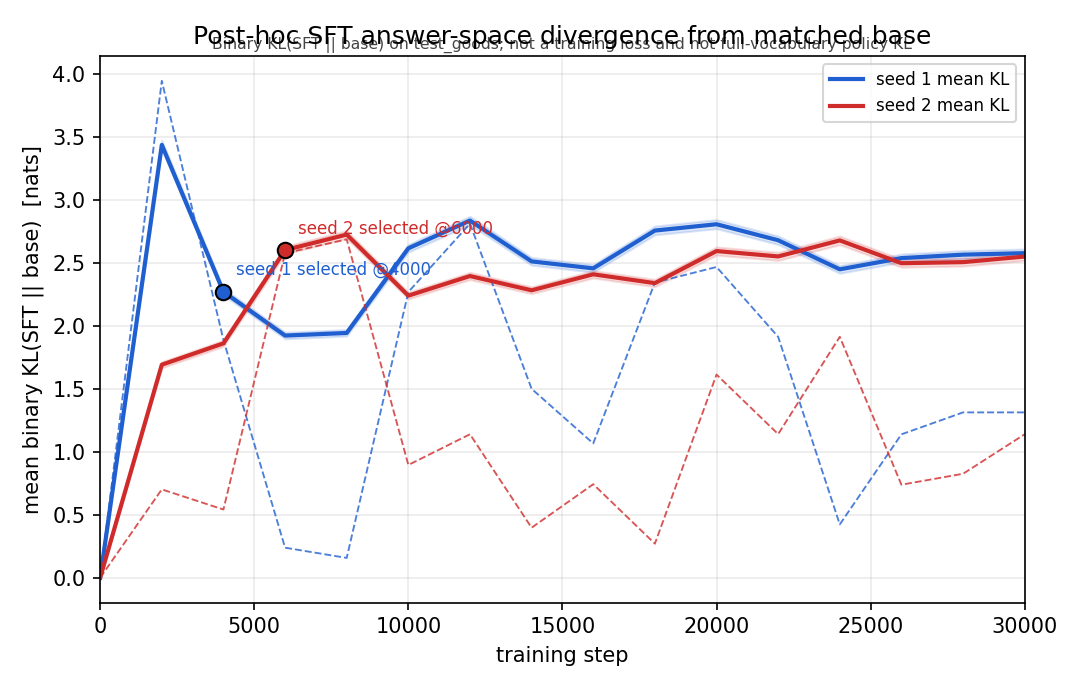
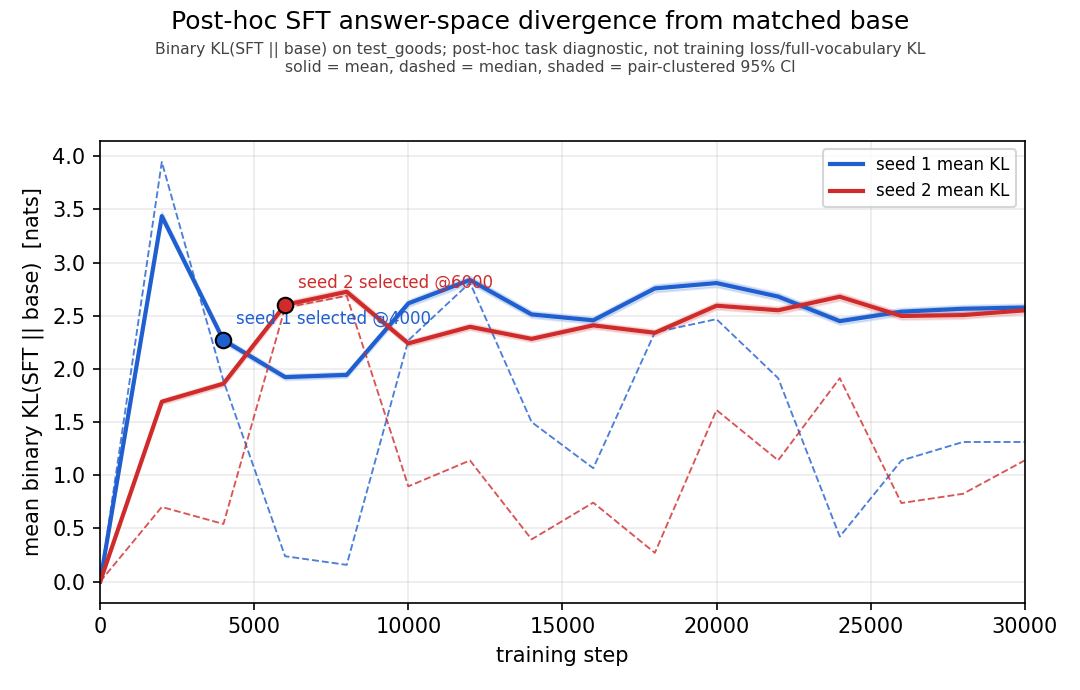
Clarify and repair SFT KL presentation

diff --git a/draft/sft-presentation.html b/draft/sft-presentation.html
@@ -335,7 +335,7 @@
           <p>Warmup ends at step 1,500, followed by cosine decay to almost zero at 30k. The recorded schedule matches the configuration.</p>
         </div>
       </div>
-      <p class="note"><strong>Training result:</strong> both seeds completed 30,000 updates without numerical failure. Median target-token loss fell by about 59% in both runs. SFT has no reward, advantage, generation, or KL curve; those are GRPO quantities.</p>
+      <p class="note"><strong>Training result:</strong> both seeds completed 30,000 updates without numerical failure. Median target-token loss fell by about 59% in both runs. SFT has no training-time reward, advantage, generation, or KL term/curve; the next figure is a post-hoc diagnostic.</p>
     </section>
 
     <section>
@@ -343,7 +343,7 @@
       <figure>
         <img
           src="../results/training_dynamics/sft/sft_answer_divergence.png"
-          data-fallbacks="https://raw.githubusercontent.com/Jackeychan-818/llm-loss-aversion-rl/main/results/training_dynamics/sft/sft_answer_divergence.png"
+          data-fallbacks="https://raw.githubusercontent.com/Jackeychan-818/llm-loss-aversion-rl/6ce2a5f/results/training_dynamics/sft/sft_answer_divergence.png"
           loading="lazy"
           alt="Post-hoc binary KL divergence of each SFT checkpoint from the matched base, seeds 1 and 2"
           onerror="loadNextGraph(this)">
@@ -354,7 +354,7 @@
         <span class="graph-error" hidden>Graph could not be loaded from the repository, local disk, or merged commit.</span>
       </div>
       <p class="small muted"><strong>What this is:</strong> for every prompt we compute the binary Kullback–Leibler divergence <em>KL(SFT ∥ base)</em> in nats from the two existing teacher-forced Yes/No probabilities on <code>test_goods</code> validation, then average per checkpoint with a pair-clustered 95% bootstrap band. It is a post-hoc, task-specific measurement, <strong>not a training loss</strong> and <strong>not full-vocabulary policy divergence</strong>.</p>
-      <p class="note"><strong>What the curve shows:</strong> answer-space divergence is large (≈1.7–3.4 nats) and non-monotonic, and it is <em>not</em> minimized at the behaviorally selected checkpoints. Seed&nbsp;1 starts highest at 2k (≈3.44), dips to ≈1.92 around 6–8k, then rises to a ≈2.58 plateau by 30k — above its selected-4k value (≈2.27). Seed&nbsp;2 rises to ≈2.73 around 8k, then stays near ≈2.5, roughly flat past its selected 6k (≈2.60) through 30k (≈2.55). With no KL penalty, divergence accumulates and settles at a high level rather than returning toward the base, even after continued training yields little further behavioral change. Means are right-tail-driven; per-prompt medians are lower (≈1.1–1.9 nats).</p>
+      <p class="note"><strong>What the curve shows:</strong> answer-space divergence is large (≈1.7–3.4 nats), non-monotonic, and <em>not</em> minimized at the behaviorally selected checkpoints. Seed&nbsp;1 starts highest at 2k (≈3.44), dips to ≈1.92 around 6–8k, then reaches ≈2.58 at 30k — above its selected-4k value (≈2.27). Seed&nbsp;2 rises to ≈2.73 around 8k, then stays near ≈2.5 through 30k (≈2.55). Thus task-specific divergence remains elevated after selection. SFT did not directly constrain this quantity, but this post-hoc analysis does not establish that omitting a KL penalty caused the trajectory. The mean is right-tail-sensitive; checkpoint medians range more widely than the mean (≈0.16–3.95 nats).</p>
     </section>
 
     <section>

diff --git a/eval/analyze_sft_answer_divergence.py b/eval/analyze_sft_answer_divergence.py
@@ -432,13 +432,16 @@ def render_png(snap: dict, path: Path) -> None:
     ax.set_xlim(0, 30000)
     ax.set_xlabel("training step")
     ax.set_ylabel("mean binary KL(SFT || base)  [nats]")
-    ax.set_title("Post-hoc SFT answer-space divergence from matched base")
-    ax.text(0.5, 1.005, "Binary KL(SFT || base) on test_goods; not a training loss and "
-            "not full-vocabulary policy KL",
-            transform=ax.transAxes, ha="center", va="bottom", fontsize=7.5, color="#444")
+    fig.suptitle("Post-hoc SFT answer-space divergence from matched base",
+                 y=0.985, fontsize=12)
+    fig.text(0.5, 0.94,
+             "Binary KL(SFT || base) on test_goods; post-hoc task diagnostic, not "
+             "training loss/full-vocabulary KL\n"
+             "solid = mean, dashed = median, shaded = pair-clustered 95% CI",
+             ha="center", va="top", fontsize=7.5, color="#444")
     ax.grid(True, alpha=0.25)
     ax.legend(loc="best", fontsize=8)
-    fig.tight_layout()
+    fig.tight_layout(rect=(0, 0, 1, 0.90))
     fig.savefig(path, dpi=150)
     plt.close(fig)
 
